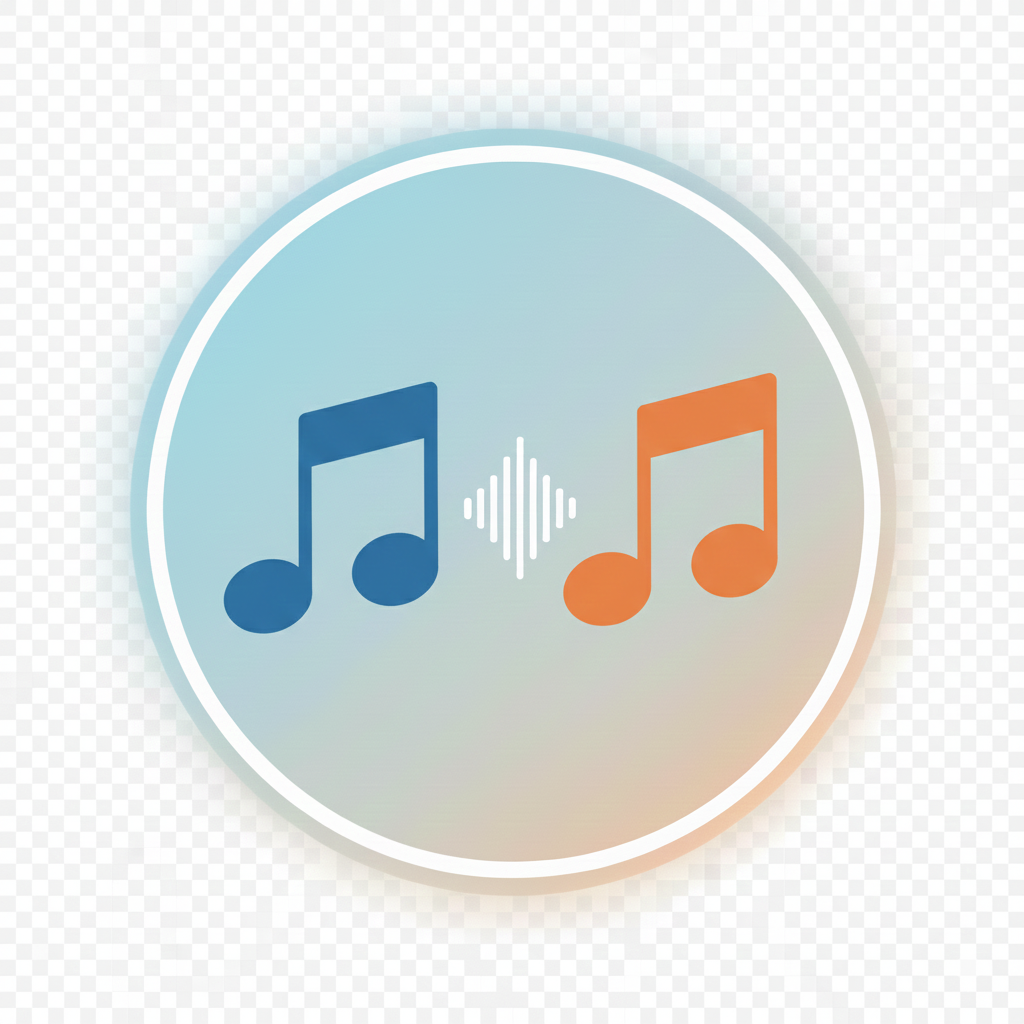
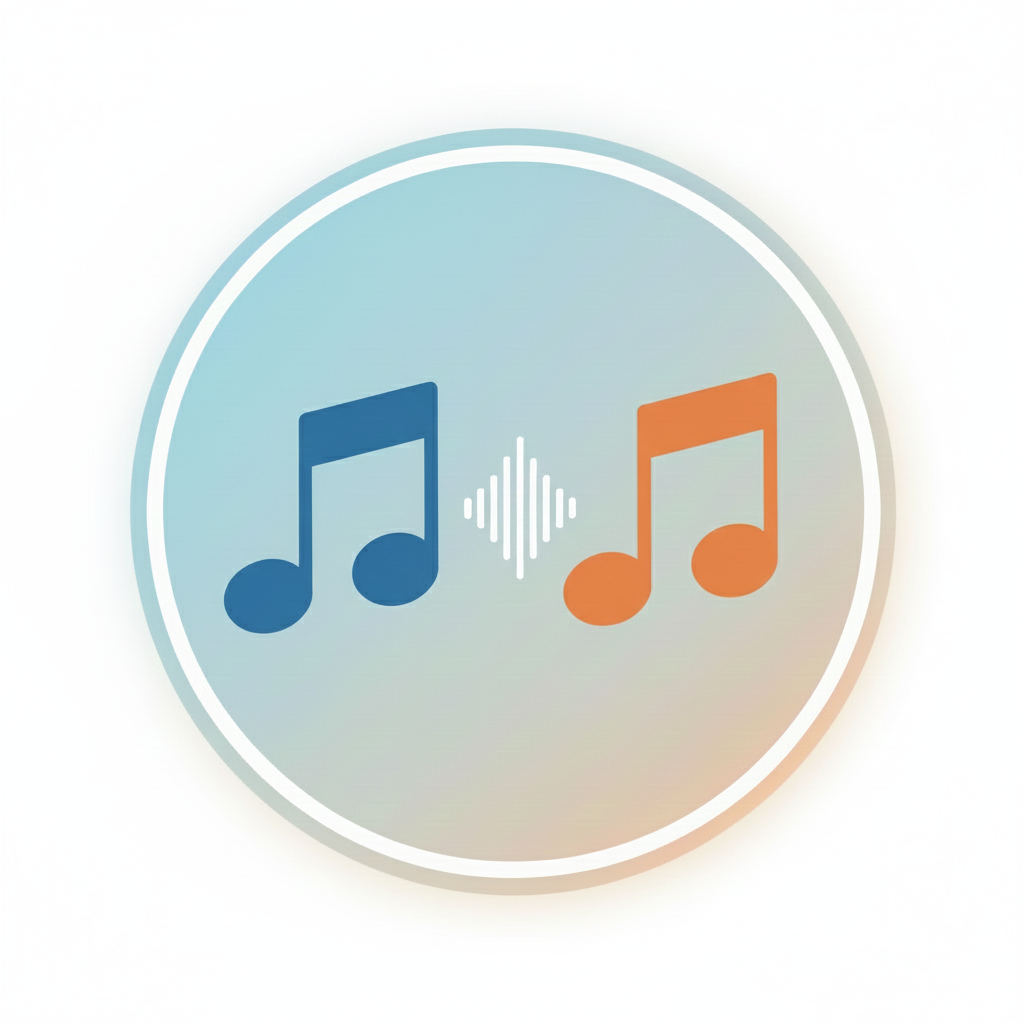
chore: 更新应用图标和音乐缺省封面
- 使用新生成的 pic/icon.icns 作为应用图标
- 使用新生成的 pic/music_item.png 作为音乐缺省封面
- 同步更新 build/icon.icns 作为备用图标

diff --git a/CHANGELOG.md b/CHANGELOG.md
@@ -33,6 +33,12 @@
   - 当有ID3信息时对话框自动变宽（850px），无ID3信息时保持原有宽度（500px）
   - 响应式设计：小屏幕时自动切换回上下布局
 
+### 更新
+- **更新应用图标和音乐缺省封面**
+  - 使用新生成的 `pic/icon.icns` 作为应用图标（窗口和 Dock）
+  - 使用新生成的 `pic/music_item.png` 作为音乐缺省封面
+  - 更新 `build/icon.icns` 作为备用图标
+
 ### 修复
 - **数据库初始化时序问题**
   - 修复 `local-music-dir:validate` 等 IPC handler 报错"数据库未初始化"的问题